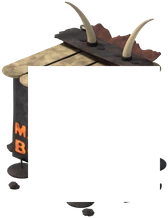
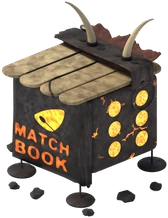
Inferno General Store E: its body stays whole under the glow cells (no hairline round the cell box when zoomed), real in-game shots (Modern desktop and phone, the three states, Low quality, Classic unchanged), comparison sheet

diff --git a/art-samples/buildings-b6/inferno/store/post_e.py b/art-samples/buildings-b6/inferno/store/post_e.py
@@ -108,7 +108,9 @@ def mp4():
 
 
 def game_pic(name):
-    return Image.open(ART / "generalstore" / name).convert("RGBA")
+    """A game picture of the store; the painted shop E replaced is kept from git in e/work (see `sheets`)."""
+    own = ART / "generalstore" / name
+    return Image.open(own if own.exists() else HERE / "e" / "work" / ("live-" + name.removeprefix("top."))).convert("RGBA")
 
 
 def sheets():
@@ -138,20 +140,20 @@ def sheets():
             z = 2 if tag == "horns" else 4
             a, b = (i.resize((i.width * z, i.height * z), Image.LANCZOS) for i in (a, b))
             row([label(a, "before (round 2)"), label(b, "after")], gap=8).save(OUT / f"fix-{tag}-before-after.png")
-    # surface Store | E | the live Inferno store today: the game's own @2x pictures, each set on the game's ground
+    # surface Store | E | the live Inferno store today (the painted shop, no longer in the folder:
+    #   git show 0512440f2:server/public/assets/buildings/generalstore/top.ishop3C@2x.webp > e/work/live-ishop3C@2x.webp
+    # ): the game's own @2x pictures, each set on the game's ground
     # point (so they stand as they do in the yard), 4 px per Flash px
     looks = (("Surface General Store", "top.3d1@2x.webp", (-42, -38)), ("E  Bone and Brimstone", "top.i3d1@2x.webp", None),
              ("Live Inferno store today", "top.ishop3C@2x.webp", (-52, -52)))
     tiles = []
     for name, file, at in looks:
-        if not (ART / "generalstore" / file).exists():
-            continue
         if at is None:
             at = OFFSETS.get(file)
         im = game_pic(file)
         t = Image.new("RGBA", (150 * 4, 150 * 4), BG + (255,))
         big = im.resize((im.width * 2, im.height * 2), Image.LANCZOS)
-        t.alpha_composite(big, ((75 + at[0]) * 4, (95 + at[1]) * 4))
+        t.alpha_composite(big, ((75 + at[0]) * 4, (78 + at[1]) * 4))
         tiles.append(label(t.convert("RGB"), name))
     if len(tiles) == 3:
         row(tiles).save(OUT / "compare-surface-e-live.png")

diff --git a/web/tools/tower-tiers/export3d_buildings.py b/web/tools/tower-tiers/export3d_buildings.py
@@ -204,7 +204,7 @@ BUILDINGS = {
                    moves="cells", noise=0.0),
     # the Inferno's store shares the surface store's folder: its files are `*.i3d1*` (`tag`)
     "istore": dict(type=12, folder="generalstore", frame=(-56, -60), looks=[(1, "L1")], moves="cells", tag="i3d",
-                   even=True),
+                   even=True, whole_body=True),
     "booby": dict(type=24, folder="boobytrap", frame=(-24, -14), looks=[(1, "booby-whole")], moves=None),
     "heavy": dict(type=117, folder="heavytrap", frame=(-24, -14), looks=[(1, "heavy-whole")], moves=None),
 }
@@ -571,7 +571,11 @@ def export(name, render, state=None):
             body, shade = split(c, building | (c[..., 3] > 0.99) & changed, noise)
             del c
             still = body.copy()
-            body[y0:y1, x0:x1] = 0
+            # The body loses the cells' box, unless the cells only change its light (`whole_body`, the Inferno store's
+            # glow): then every cell lies over the same picture, and a hole would only show as a hairline round the
+            # box wherever the game's zoom blurs the two edges.
+            if not cfg.get("whole_body"):
+                body[y0:y1, x0:x1] = 0
             strips = [(f"anim.{tag}@2x.webp", box, layers)]
         elif moves == "boxes":
             body, shade = split(base, building, noise)
